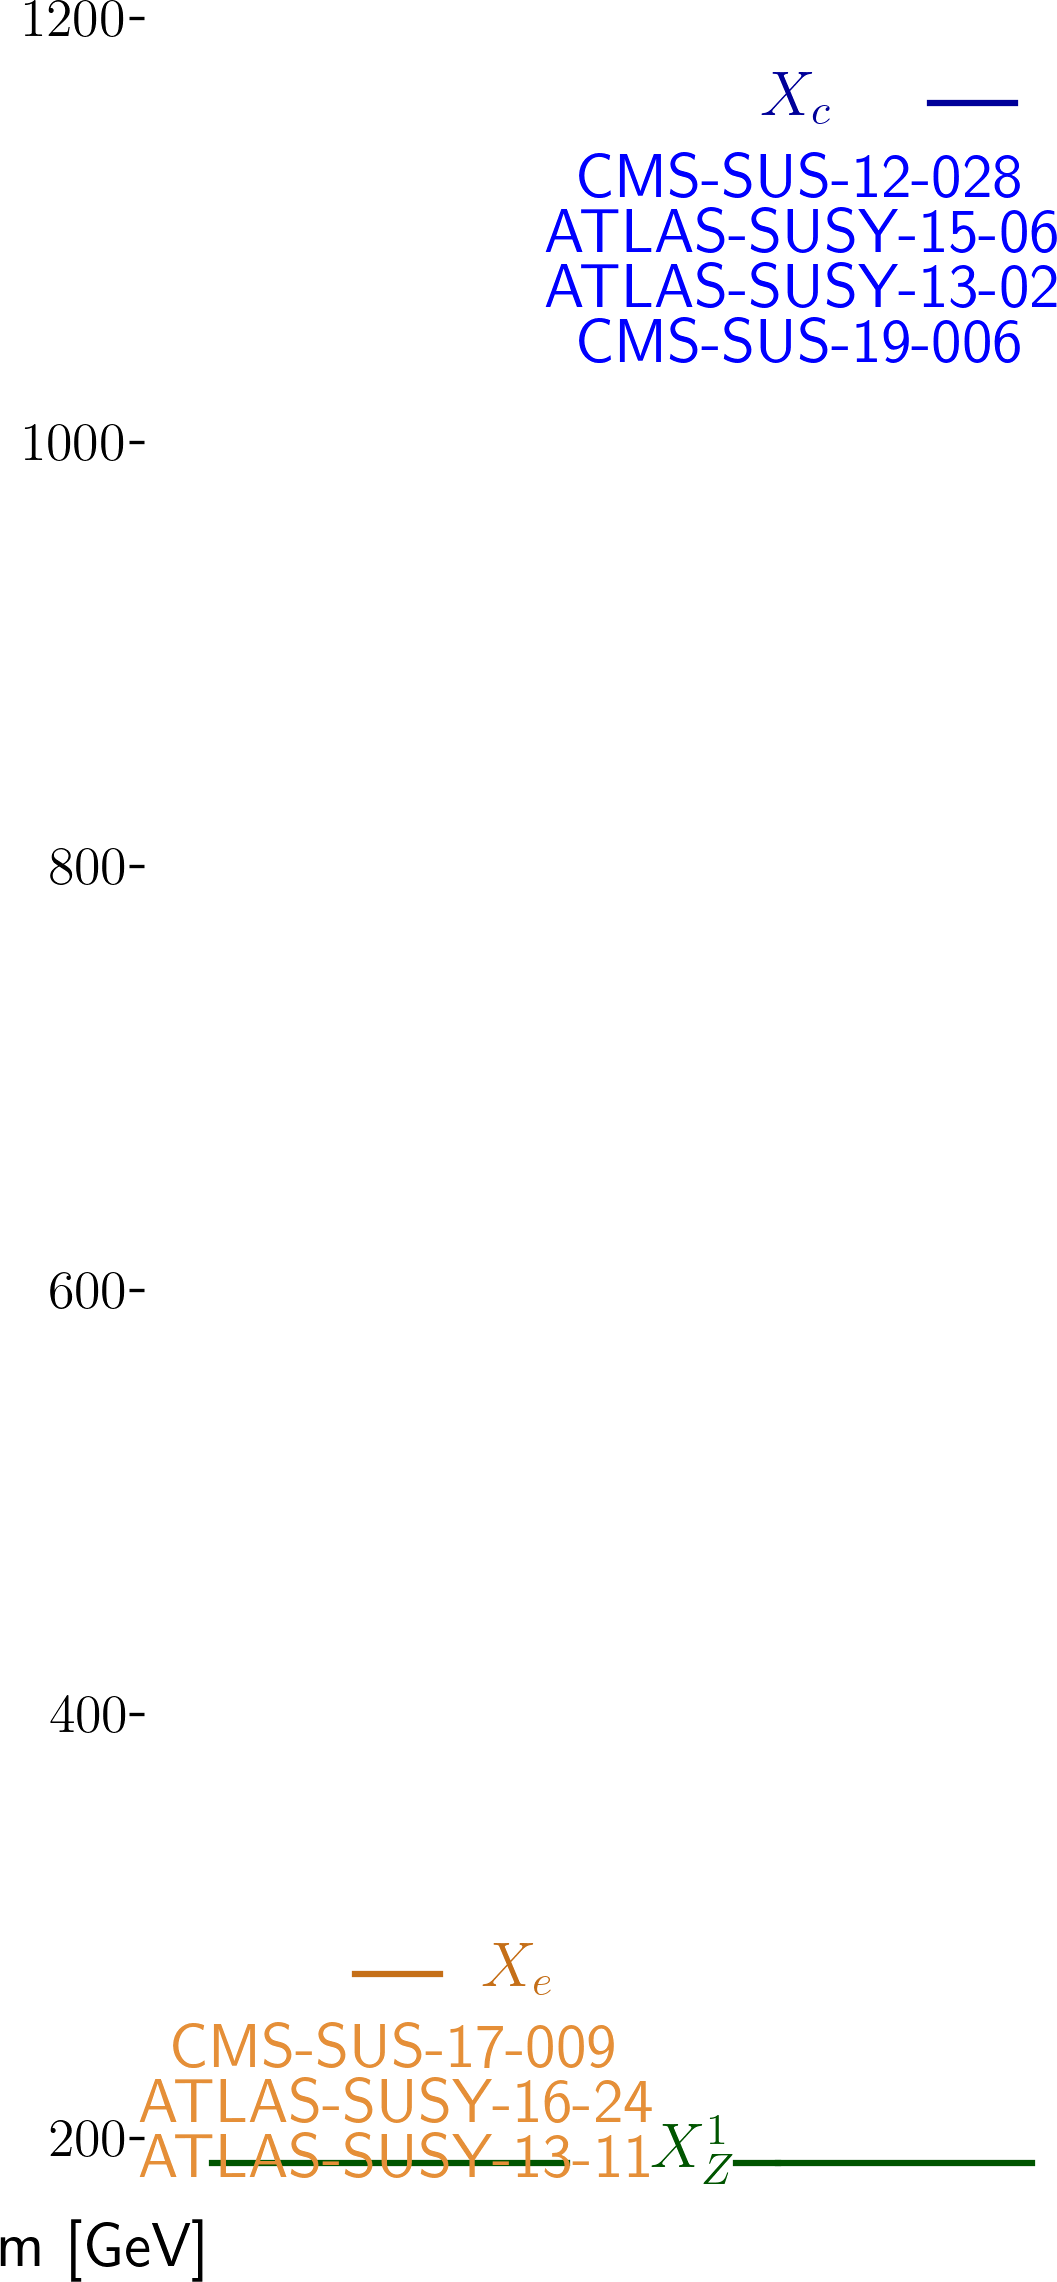
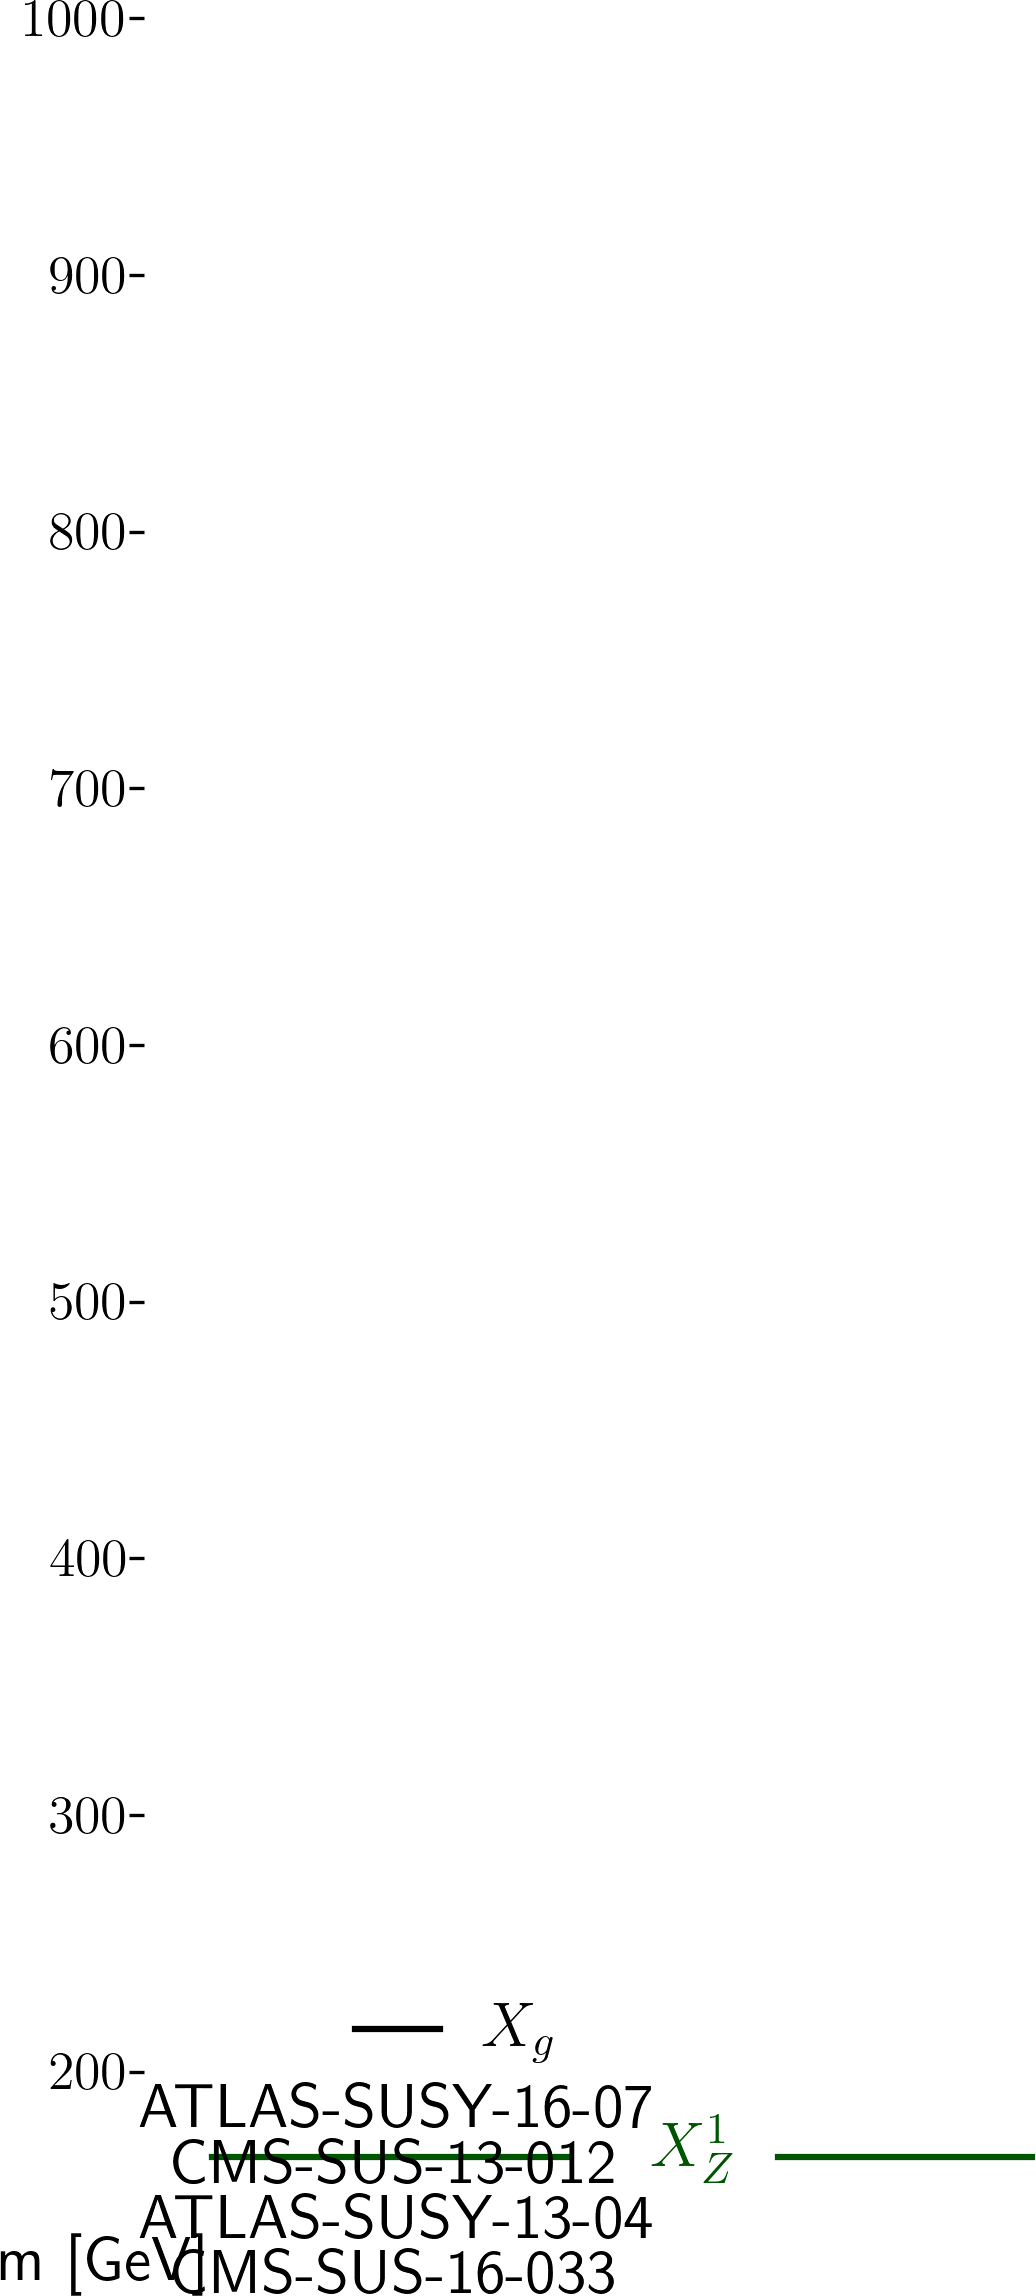
automated update by plotHiscore.py

diff --git a/protomodels/latest/index.html b/protomodels/latest/index.html
@@ -1,32 +1,32 @@
 <html>
 <body>
 <center>
-<table><td><h1>Current best protomodel: K=5.39</h1><td><img height=60px src=https://smodels.github.io/pics/banner.png></table>
+<table><td><h1>Current best protomodel: K=6.98</h1><td><img height=60px src=https://smodels.github.io/pics/banner.png></table>
 </center>
-<b><a href=./hiscore.slha>ProtoModel</a> <a href=./pmodel.py>(dict)</a> produced with <a href=https://smodels.github.io/docs/Validation124fake23>database v1.2.4fake23</a>, combination strategy <a href=./matrix_aggressive.png>aggressive</a> in walker 14 step 621.</b> K plots for: <a href=./M1000022.png?8827760>X<sub>Z</sub><sup>1</sup></a>, <a href=./M1000004.png?8827760>X<sub>c</sub></a>, <a href=./M1000011.png?8827760>X<sub>e</sub></a>. HPD plots for: <a href=./llhd1000004.png?8827760>X<sub>c</sub></a>, <a href=./llhd1000011.png?8827760>X<sub>e</sub></a>. SSM plots for: <br>
+<b><a href=./hiscore.slha>ProtoModel</a> <a href=./pmodel.py>(dict)</a> produced with <a href=https://smodels.github.io/docs/Validation124signal6>database v1.2.4signal6</a>, combination strategy <a href=./matrix_aggressive.png>aggressive</a> in walker 31 step 431.</b> K plots for: <a href=./M1000022.png?8827882>X<sub>Z</sub><sup>1</sup></a>, <a href=./M1000005.png?8827882>X<sub>b</sub></a>, <a href=./M1000001.png?8827882>X<sub>d</sub></a>, <a href=./M1000013.png?8827882>X<sub>&mu;</sub></a>. HPD plots for: <a href=./llhd1000005.png?8827882>X<sub>b</sub></a>, <a href=./llhd1000001.png?8827882>X<sub>d</sub></a>, <a href=./llhd1000013.png?8827882>X<sub>&mu;</sub></a>. SSM plots for: <br>
 <table width=80%>
 <tr><td>
 <br><b>19 predictions available. Highest r values are:</b><br><ul>
-<li>CMS-SUS-16-033:T2 r=1.30, r<sub>exp</sub>=0.45<br>
-<li>ATLAS-SUSY-2016-07:T2 r=0.65, r<sub>exp</sub>=0.37<br>
-<li>CMS-SUS-17-009:TSelSel r=0.57, r<sub>exp</sub>=0.65<br>
-<li>CMS-SUS-17-009:TSlepSlep r=0.55, r<sub>exp</sub>=0.95<br>
-<li>ATLAS-SUSY-2013-11:TSlepSlep r=0.54, r<sub>exp</sub>=0.27<br>
+<li><a href=https://atlas.web.cern.ch/Atlas/GROUPS/PHYSICS/PAPERS/SUSY-2013-02/>ATLAS-SUSY-2013-02</a>:T2 r=1.30, r<sub>exp</sub>=1.49<br>
+<li><a href=https://atlas.web.cern.ch/Atlas/GROUPS/PHYSICS/PAPERS/SUSY-2013-02/>ATLAS-SUSY-2013-02</a>:T2 r=0.68, r<sub>exp</sub>=N/A<br>
+<li><a href=https://atlas.web.cern.ch/Atlas/GROUPS/PHYSICS/PAPERS/SUSY-2016-07/>ATLAS-SUSY-2016-07</a>:T2 r=0.48, r<sub>exp</sub>=0.65<br>
+<li><a href=https://cms-results.web.cern.ch/cms-results/public-results/publications/SUS-17-009/>CMS-SUS-17-009</a>:TSlepSlep r=0.40, r<sub>exp</sub>=0.37<br>
+<li><a href=https://atlas.web.cern.ch/Atlas/GROUPS/PHYSICS/PAPERS/SUSY-2016-24/>ATLAS-SUSY-2016-24</a>:TSlepSlep r=0.37, r<sub>exp</sub>=N/A<br>
 </ul>
 <td><br><b>K values without analyses: (contribution)</b><br>
 <ul>
-<li> <a href=>ATLAS-SUSY-2013-11</a>: -1.47 (14%)
-<li> <a href=>CMS-SUS-17-009</a>: -1.47 (14%)
-<li> <a href=>CMS-SUS-12-028</a>: -1.47 (14%)
-<li> <a href=>CMS-SUS-19-006</a>: -1.47 (14%)
-<li> <a href=>ATLAS-SUSY-2013-02</a>: -1.47 (14%)
-<li> <a href=>ATLAS-SUSY-2015-06</a>: -1.55 (14%)
-<li> <a href=>ATLAS-SUSY-2016-24</a>: -3.40 (18%)
-<td><img width=600px src=./texdoc.png?1601827760>
-<br><font size=-1>Last updated: Sun Oct  4 18:09:20 2020</font>
+<li> <a href=http://cms-results.web.cern.ch/cms-results/public-results/publications/SUS-19-006/index.html>CMS-SUS-19-006</a>: 5.99 (6%)
+<li> <a href=https://cms-results.web.cern.ch/cms-results/public-results/publications/SUS-17-009/>CMS-SUS-17-009</a>: 5.99 (6%)
+<li> <a href=https://atlas.web.cern.ch/Atlas/GROUPS/PHYSICS/PAPERS/SUSY-2013-11/>ATLAS-SUSY-2013-11</a>: 5.99 (6%)
+<li> <a href=https://atlas.web.cern.ch/Atlas/GROUPS/PHYSICS/PAPERS/SUSY-2016-07/>ATLAS-SUSY-2016-07</a>: 5.11 (11%)
+<li> <a href=https://atlas.web.cern.ch/Atlas/GROUPS/PHYSICS/PAPERS/SUSY-2013-02/>ATLAS-SUSY-2013-02</a>: 4.31 (15%)
+<li> <a href=https://atlas.web.cern.ch/Atlas/GROUPS/PHYSICS/PAPERS/SUSY-2016-24/>ATLAS-SUSY-2016-24</a>: 3.16 (22%)
+<li> <a href=https://twiki.cern.ch/twiki/bin/view/CMSPublic/PhysicsResultsSUS13012>CMS-SUS-13-012</a>: 0.67 (36%)
+<td><img width=600px src=./texdoc.png?1601827882>
+<br><font size=-1>Last updated: Sun Oct  4 18:11:22 2020</font>
 </table><table style="width:80%">
-<td width=45%><img height=580px src=./ruler.png?1601827760><td width=55%><img height=380px src=./decays.png?1601827760>
-<font size=-3><iframe type="text/html" height="220px" width="100%s" frameborder="0" src="./rawnumbers.html?1601827760"></iframe></font>
+<td width=45%><img height=580px src=./ruler.png?1601827882><td width=55%><img height=380px src=./decays.png?1601827882>
+<font size=-3><iframe type="text/html" height="220px" width="100%s" frameborder="0" src="./rawnumbers.html?1601827882"></iframe></font>
 </table>
 </body>
 </html>

diff --git a/protomodels/latest/rawnumbers.html b/protomodels/latest/rawnumbers.html
@@ -1,11 +1,11 @@
 <table>
-<tr><th>Analysis Name</th><th>Type</th><th>Dataset</th><th>Topos</th><th>Observed</th><th>Expected</th><th>Approx &sigma;</th><th>Particles</th>
+<tr><th>Analysis Name</th><th>Type</th><th>Dataset</th><th>Topos</th><th>Observed</th><th>Expected</th><th>Approx &sigma;</th><th>Particles</th><th>Signal</th>
 </tr>
-<tr><td>ATLAS-SUSY-2013-02</td><td>em</td> <td>SR6jm</td><td>T2</td><td>36</td><td>33 +/- 6</td><td style="text-align:right">0.4 &sigma;</td><td style="text-align:right">X<sub>c</sub></td></tr>
-<tr><td>ATLAS-SUSY-2013-11</td><td>em</td> <td>Zjets</td><td>TSlepSlep</td><td>1</td><td>1.4 +/- 0.6</td><td style="text-align:right">-0.3 &sigma;</td><td style="text-align:right">X<sub>e</sub></td></tr>
-<tr><td>ATLAS-SUSY-2015-06</td><td>em</td> <td>SR4jt</td><td>T2</td><td>5</td><td>4.1 +/- 1.1</td><td style="text-align:right">0.4 &sigma;</td><td style="text-align:right">X<sub>c</sub></td></tr>
-<tr><td>ATLAS-SUSY-2016-24</td><td>em</td> <td>SR2-SF-loose</td><td>TSelSel</td><td>169</td><td>133 +/- 22</td><td style="text-align:right">1.4 &sigma;</td><td style="text-align:right">X<sub>e</sub></td></tr>
-<tr><td>CMS-SUS-12-028</td><td>ul</td> <td>-</td><td>T2</td><td> 5.0 fb </td><td> 7.0 fb</td><td style="text-align:right">-0.5 &sigma;</td><td style="text-align:right">X<sub>c</sub></td></tr>
-<tr><td>CMS-SUS-17-009</td><td>ul</td> <td>-</td><td>TSlepSlep</td><td> 27.0 fb </td><td> 15.5 fb</td><td style="text-align:right">1.5 &sigma;</td><td style="text-align:right">X<sub>e</sub></td></tr>
-<tr><td>CMS-SUS-19-006</td><td>ul</td> <td>-</td><td>T2</td><td> 7.3 fb </td><td> 3.8 fb</td><td style="text-align:right">1.8 &sigma;</td><td style="text-align:right">X<sub>c</sub></td></tr>
+<tr><td><a href=https://atlas.web.cern.ch/Atlas/GROUPS/PHYSICS/PAPERS/SUSY-2013-02/>ATLAS-SUSY-2013-02</a></td><td>em</td> <td>SR6jtp</td><td>T2</td><td>9</td><td>4.9 +/- 1.6</td><td style="text-align:right">1.5 &sigma;</td><td style="text-align:right">X<sub>d</sub></td><td style="text-align:right">-</td></tr>
+<tr><td><a href=https://atlas.web.cern.ch/Atlas/GROUPS/PHYSICS/PAPERS/SUSY-2013-11/>ATLAS-SUSY-2013-11</a></td><td>em</td> <td>Zjets</td><td>TSlepSlep</td><td>2</td><td>1.4 +/- 0.6</td><td style="text-align:right">0.5 &sigma;</td><td style="text-align:right">X<sub>&mu;</sub></td><td style="text-align:right">-</td></tr>
+<tr><td><a href=https://atlas.web.cern.ch/Atlas/GROUPS/PHYSICS/PAPERS/SUSY-2016-07/>ATLAS-SUSY-2016-07</a></td><td>em</td> <td>2j_Meff_1200</td><td>T2</td><td>569</td><td>526 +/- 31</td><td style="text-align:right">1.1 &sigma;</td><td style="text-align:right">X<sub>d</sub></td><td style="text-align:right">39</td></tr>
+<tr><td><a href=https://atlas.web.cern.ch/Atlas/GROUPS/PHYSICS/PAPERS/SUSY-2016-24/>ATLAS-SUSY-2016-24</a></td><td>em</td> <td>SR2-SF-loose</td><td>TSmuSmu</td><td>192</td><td>133 +/- 22</td><td style="text-align:right">2.4 &sigma;</td><td style="text-align:right">X<sub>&mu;</sub></td><td style="text-align:right">-</td></tr>
+<tr><td><a href=https://twiki.cern.ch/twiki/bin/view/CMSPublic/PhysicsResultsSUS13012>CMS-SUS-13-012</a></td><td>em</td> <td>6NJet8_800HT100 ...</td><td>T2</td><td>51</td><td>28.6 +/- 6.9</td><td style="text-align:right">2.6 &sigma;</td><td style="text-align:right">X<sub>d</sub></td><td style="text-align:right">23</td></tr>
+<tr><td><a href=https://cms-results.web.cern.ch/cms-results/public-results/publications/SUS-17-009/>CMS-SUS-17-009</a></td><td>ul</td> <td>-</td><td>TSmuSmu</td><td> 20.5 fb </td><td> 15.0 fb</td><td style="text-align:right">0.7 &sigma;</td><td style="text-align:right">X<sub>&mu;</sub></td><td style="text-align:right">-</td></tr>
+<tr><td><a href=http://cms-results.web.cern.ch/cms-results/public-results/publications/SUS-19-006/index.html>CMS-SUS-19-006</a></td><td>ul</td> <td>-</td><td>T2bb</td><td> 10.4 fb </td><td> 5.8 fb</td><td style="text-align:right">1.6 &sigma;</td><td style="text-align:right">X<sub>b</sub></td><td style="text-align:right">-</td></tr>
 </table>

diff --git a/protomodels/latest/pmodel.py b/protomodels/latest/pmodel.py
@@ -1,1 +1,1 @@
-{'masses': {1000022: 178.348, 1000011: 267.508, 1000004: 1150.063}, 'ssmultipliers': {(1000022, 1000022): 0.0, (1000011, 1000011): 6.804, (-1000011, 1000011): 6.804, (-1000011, -1000011): 6.804, (1000011, 1000022): 6.804, (-1000011, 1000022): 6.804, (1000004, 1000004): 1.302, (-1000004, 1000004): 1.302, (-1000004, -1000004): 1.302, (1000004, 1000022): 1.302, (-1000004, 1000022): 1.302, (1000004, 1000011): 1.302, (-1000004, 1000011): 1.302, (-1000011, 1000004): 1.302, (-1000011, -1000004): 1.302}, 'decays': {1000022: {}, 1000011: {(1000022, 11): 1.0}, 1000004: {(1000022, 4): 1.0}}, 'timestamp': 'Sun Oct  4 18:08:16 2020', 'Z': 2.99, 'K': 5.388, 'step': 621, 'codever': '1.0', 'dbver': '1.2.4fake23'}
+{'masses': {1000022: 156.747, 1000021: 206.627}, 'ssmultipliers': {(1000022, 1000022): 0.112, (1000021, 1000021): 0.069, (1000021, 1000022): 0.095}, 'decays': {1000022: {}, 1000021: {(1000022, 5): 0.816, (1000022, 1): 0.068, (1000022, 21): 0.048, (1000022, 4): 0.068}}, 'timestamp': 'Sun Oct  4 18:11:09 2020', 'Z': 4.128, 'K': 13.79, 'step': 260, 'codever': '1.0', 'dbver': '1.2.4signal7'}
